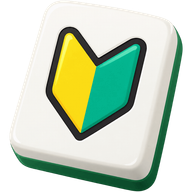
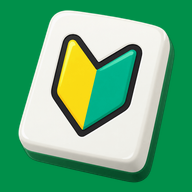
fix: タブアイコンにも同じ地色を敷く
ロゴ本体が白い牌なので、透過のままだとライトテーマのタブで牌の面が地に
溶ける。ホーム画面アイコンと同じブランドグリーンを敷いて、どの環境でも
同じ見え方にする。

ロゴの占める割合は用途で分けた。iOS は角丸で切り抜くので余白が要るが、
タブは切り抜かないため同じ余白を取ると 16px で図版が潰れる。

Claude-Session: https://claude.ai/code/session_01VWJecV5URrnXePo8M4oioa

diff --git a/apps/web/scripts/generate-icons.ts b/apps/web/scripts/generate-icons.ts
@@ -23,21 +23,26 @@ const ICON_SIZE = 192;
 const APPLE_ICON_SIZE = 180;
 
 /**
- * ホーム画面アイコンの地色。globals.css の `--color-primary-500` と揃える。
+ * アイコンの地色。globals.css の `--color-primary-500` と揃える。
  *
- * iOS は apple-touch-icon の透過を黒で塗って角丸マスクをかけるため、
- * 透明のまま出すと黒地にロゴが浮いた別物になる。ブランドグリーンを敷けば
- * OGP（緑の地に白いカード）と同じ見え方になり、白い牌の輪郭も出る。
+ * ロゴ本体は白い牌なので、透過のまま出すと敷かれる地の色に左右される。
+ * iOS は apple-touch-icon の透過を黒で塗るため黒地に浮いた別物になり、
+ * ブラウザのタブではライトテーマの地に牌の面が溶ける。ブランドグリーンを
+ * 敷けばどこでも同じ見え方になり、OGP（緑の地に白いカード）とも揃う。
  */
-const APPLE_ICON_BACKGROUND = { r: 0, g: 144, b: 74, alpha: 1 } as const;
+const ICON_BACKGROUND = { r: 0, g: 144, b: 74, alpha: 1 } as const;
 
 /**
- * 地色に対してロゴが占める割合。
+ * 地色に対してロゴが占める割合。用途で 2 つに分かれる。
  *
- * iOS はアイコンを角丸（スーパー楕円）で切り抜くので、隅まで図版を伸ばすと
- * 四隅が欠ける。地色の余白を残して内側に収める。
+ * iOS はホーム画面アイコンを角丸（スーパー楕円）で切り抜くので、隅まで
+ * 図版を伸ばすと四隅が欠ける。地色の余白を残して内側に収める。
+ *
+ * ブラウザのタブは切り抜かないため、同じだけ余白を取ると 16px で図版が
+ * 潰れる（最小サイズでこそ図版に画素を割きたい）。窮屈に見えない程度の
+ * 余白だけ残す。
  */
-const APPLE_ICON_LOGO_RATIO = 0.78;
+const LOGO_RATIO = { appleIcon: 0.78, tab: 0.9 } as const;
 
 /**
  * PNG を ICO コンテナに束ねる。
@@ -75,7 +80,7 @@ async function main(): Promise<void> {
   const webRoot = join(dirname(fileURLToPath(import.meta.url)), "..");
   const source = readFileSync(join(webRoot, "public/logo.png"));
 
-  const render = (size: number): Promise<Buffer> =>
+  const renderLogo = (size: number): Promise<Buffer> =>
     sharp(source)
       .resize(size, size, {
         fit: "contain",
@@ -86,32 +91,43 @@ async function main(): Promise<void> {
       .png()
       .toBuffer();
 
-  /** ホーム画面アイコン。他の 2 つと違い、地色を敷いた上にロゴを載せる。 */
-  const renderAppleIcon = async (): Promise<Buffer> => {
-    const logoSize = Math.round(APPLE_ICON_SIZE * APPLE_ICON_LOGO_RATIO);
-    const offset = Math.round((APPLE_ICON_SIZE - logoSize) / 2);
+  /** 地色を敷いた正方形の中央にロゴを載せる。 */
+  const renderIcon = async (size: number, ratio: number): Promise<Buffer> => {
+    const logoSize = Math.round(size * ratio);
+    const offset = Math.round((size - logoSize) / 2);
 
     return sharp({
       create: {
-        width: APPLE_ICON_SIZE,
-        height: APPLE_ICON_SIZE,
+        width: size,
+        height: size,
         channels: 4,
-        background: APPLE_ICON_BACKGROUND,
+        background: ICON_BACKGROUND,
       },
     })
-      .composite([{ input: await render(logoSize), left: offset, top: offset }])
+      .composite([
+        { input: await renderLogo(logoSize), left: offset, top: offset },
+      ])
       .png()
       .toBuffer();
   };
 
   const icoEntries = await Promise.all(
-    ICO_SIZES.map(async (size) => ({ size, data: await render(size) })),
+    ICO_SIZES.map(async (size) => ({
+      size,
+      data: await renderIcon(size, LOGO_RATIO.tab),
+    })),
   );
 
   const outputs: readonly [string, Buffer][] = [
     [join(webRoot, "src/app/favicon.ico"), buildIco(icoEntries)],
-    [join(webRoot, "src/app/icon.png"), await render(ICON_SIZE)],
-    [join(webRoot, "src/app/apple-icon.png"), await renderAppleIcon()],
+    [
+      join(webRoot, "src/app/icon.png"),
+      await renderIcon(ICON_SIZE, LOGO_RATIO.tab),
+    ],
+    [
+      join(webRoot, "src/app/apple-icon.png"),
+      await renderIcon(APPLE_ICON_SIZE, LOGO_RATIO.appleIcon),
+    ],
   ];
 
   for (const [dest, data] of outputs) {
